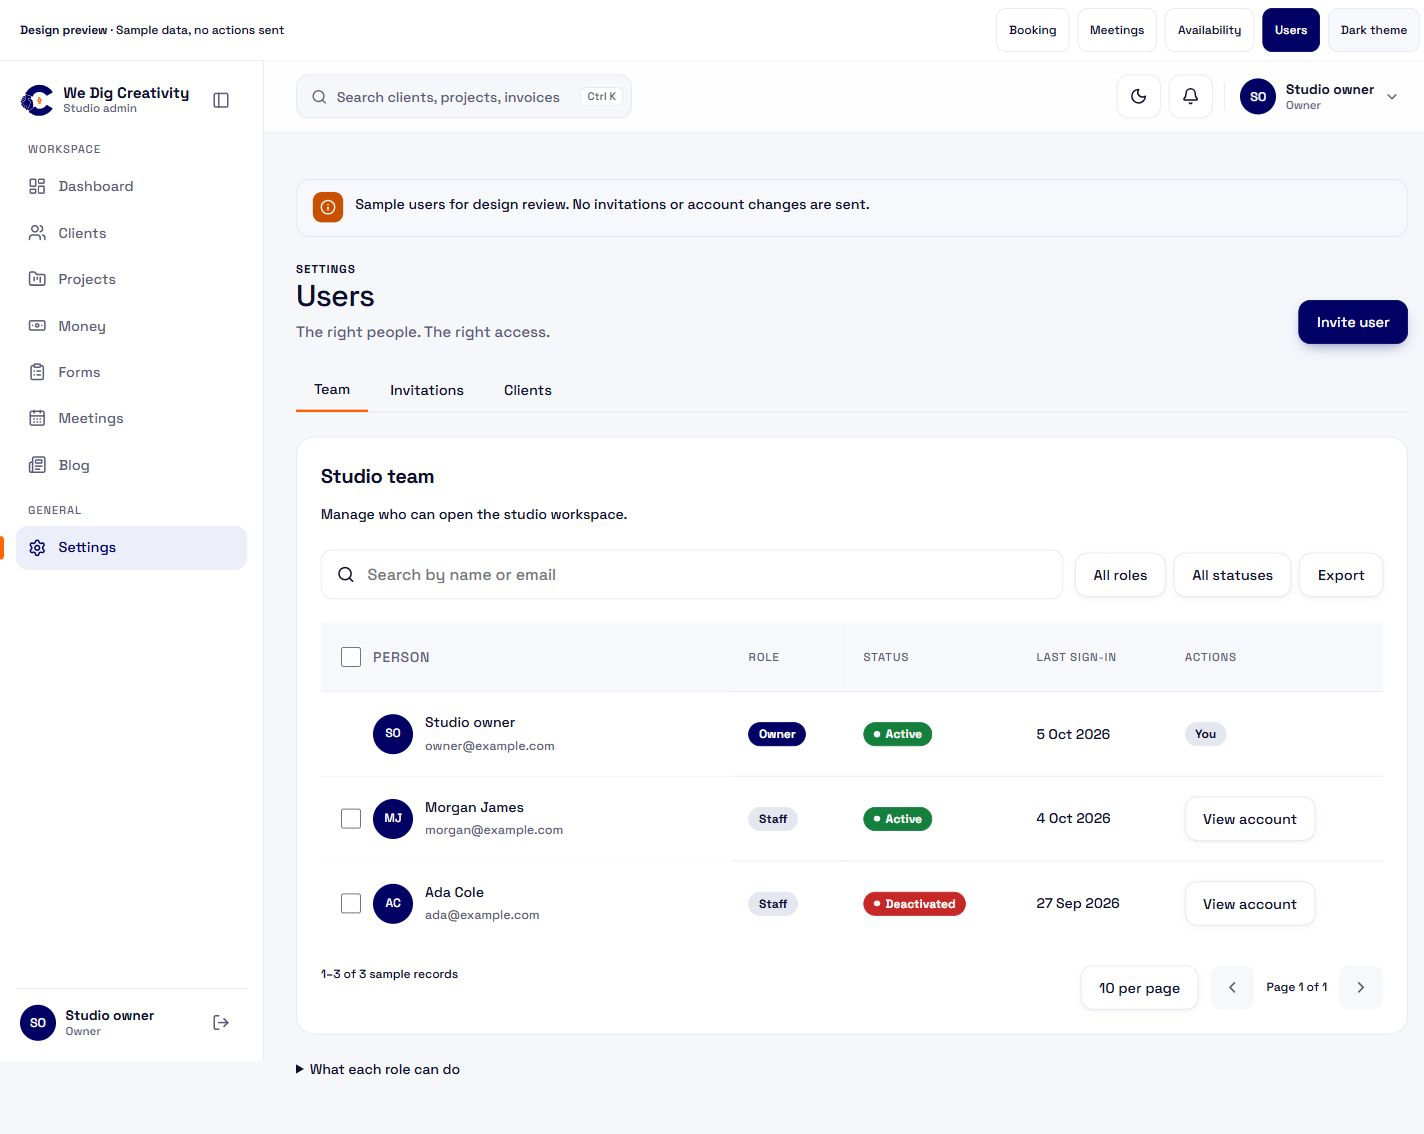
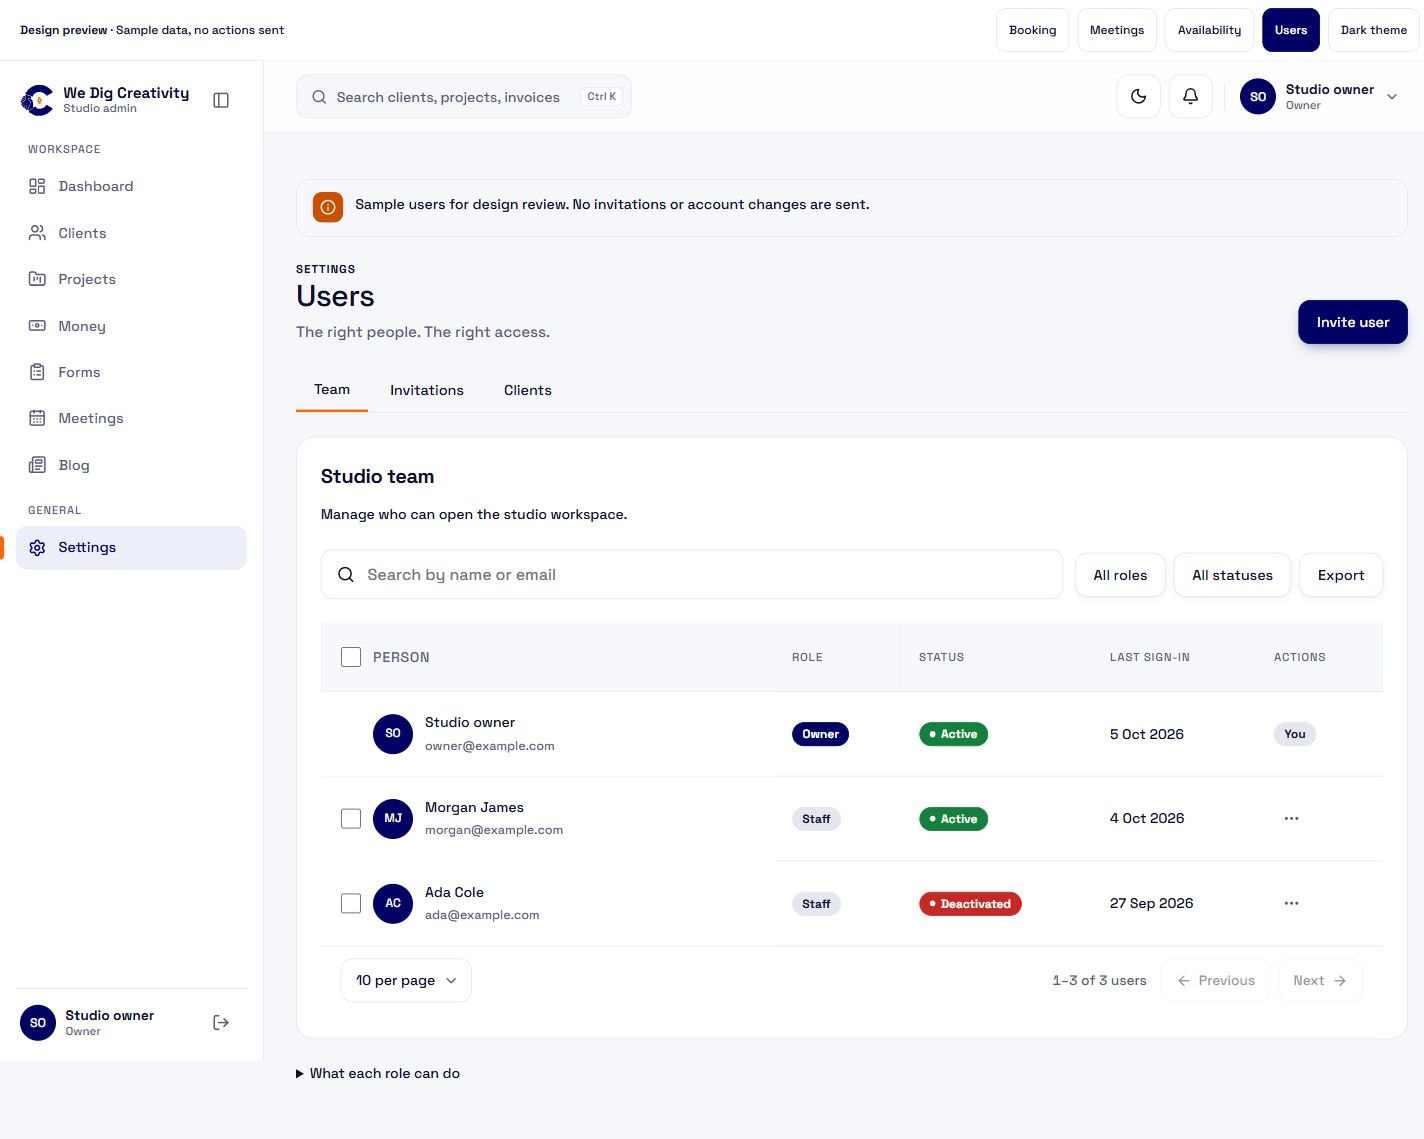
Verify native Users controls and bounded mobile table columns

diff --git a/prototypes/cal-meetings/fidelity.css b/prototypes/cal-meetings/fidelity.css
@@ -107,3 +107,4 @@ button,input,textarea{font-family:var(--font-outfit),system-ui,sans-serif}
 .user-person-cell,.user-select-all{display:flex;align-items:center;gap:12px}.user-select,.user-check-spacer{width:20px;height:20px;min-height:20px;flex:none;margin:0}.user-select-all{min-height:44px}.user-pagination,.user-pagination nav{display:flex;align-items:center;gap:12px;flex-wrap:wrap}.user-bulk{display:flex;align-items:center;gap:12px;flex-wrap:wrap;padding:16px 0}.users-dialog .user-radio{min-height:44px}.user-person-cell .user-person{min-width:0}.user-person small{overflow-wrap:anywhere}
 @media(max-width:767px){.user-table-foot{flex-direction:column;align-items:flex-start;gap:16px}.user-pagination{width:100%;justify-content:space-between}.user-pagination nav{gap:8px}.user-select-all{margin:0}.user-toolbar>.button-row{flex-wrap:wrap}}
 .user-table th:first-child,.user-table td:first-child{min-width:320px;max-width:none}.user-person>span:last-child{min-width:180px}.user-person b,.user-person small{white-space:nowrap}.user-select{accent-color:var(--ad-fill)}
+@media(max-width:767px){.user-table th:first-child,.user-table td:first-child{min-width:200px;width:200px;max-width:200px}.user-person-cell,.user-person{gap:8px}.user-avatar{width:28px;height:28px;font-size:10px}.user-person>span:last-child{min-width:0;width:104px}.user-person b{white-space:normal}.user-person small{overflow:hidden;text-overflow:ellipsis;white-space:nowrap}.user-table th:first-child,.user-table td:first-child{padding-left:12px;padding-right:12px}}

diff --git a/prototypes/cal-meetings/README.md b/prototypes/cal-meetings/README.md
@@ -17,7 +17,7 @@ The preview serves the repository's actual `admin.css` and local Space Grotesk f
 
 `fidelity.css` handles meeting-specific geometry; the shared shell, control and panel rules remain in `admin.css`. `components.js` is generated by the renderer and must be rebuilt after shared components change.
 
-For reproducible screenshots, import `capture.mjs` from the Browser skill's supported JavaScript session and call `captureDesign(browser, tab)`. It captures all four screens at 320, 390, 640, 768, 1024 and 1440px in both themes, rejects horizontal page overflow and restores the normal viewport. Use its `themes` and `widths` options to run bounded batches. Screenshot fixtures contain no real client or account data.
+For reproducible screenshots, import `capture.mjs` from the Browser skill's supported JavaScript session and call `captureDesign(browser, tab)`. It captures all four screens at 320, 390, 640, 768, 1024 and 1440px in both themes, rejects horizontal page overflow and restores the normal viewport. Use its `themes`, `widths` and `screens` options to run bounded batches; `restoreScreen` selects the screen left open. Screenshot fixtures contain no real client or account data.
 
 Verified: booking through details/review, date/time selection, theme switching, 320px drawer and responsive geometry. Availability editing, provider data, calendar navigation across months and account controls are not production implementations.
 
@@ -27,3 +27,5 @@ Phone layouts stack next-meeting actions and save controls, put weekly-hour cont
 
 
 Users demonstrates Team, Invitations and Clients, invite/account dialogs, a read-only support banner, pinned tables, selection, reviewed bulk actions, pagination, page-size choices and CSV/JSON export scopes. These interactions update sample fixtures only. Production authorization, delivery, bulk results and export generation are being implemented separately.
+
+The Users pagination markup is rendered from the actual shared `Pager`; row options use the existing three-dot menu styles. On phones the pinned person column is bounded so other columns can still be reached by horizontal scrolling. Full account details remain available from the row menu.

diff --git a/plans/onboarding-service-experience-plan.md b/plans/onboarding-service-experience-plan.md
@@ -160,4 +160,3 @@ No schema migration is expected merely to change help or to serialise colours in
 - Save and resume a draft containing conditional answers and uploads across refresh/device; explicit Start over must follow the companion plan's safe reset rules. A colour/help edit must not alter progress incorrectly or lose another service's common answers.
 - Final submission remains server-validated and auditable. No credentials, artificial sample answers, automatic scope purchase, invented analytics, or interface-only “connected/saved/delivered” claims.
 - Run targeted validation/round-trip checks plus lint, TypeScript, build and responsive visual verification for the implemented changes. Source inspection in this proposal is evidence about today's code, not evidence that proposed behaviour has shipped.
-
